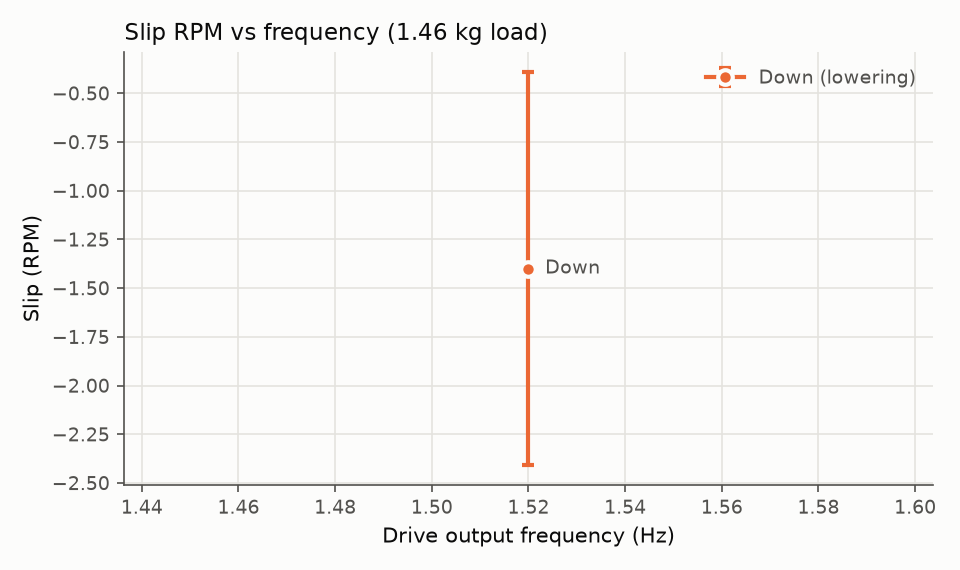
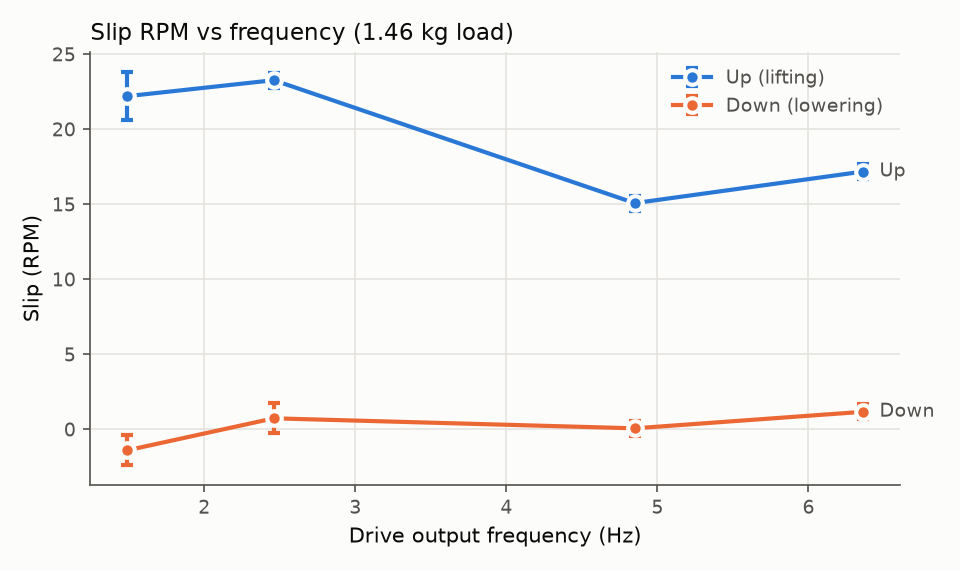
Backfill the 1.46 kg metal box's missing frequencies into the repo
The 2.44/4.85/6.36 Hz up/down runs for the metal box were analyzed and
published in docs/results-log.md and its Word doc, but were never logged
as structured data (xlsx + rpm_notes.csv) the way the pliers and plastic
housing runs were - only the 1.52 Hz down-direction session existed under
results/2026-10-07/. Recovered the exact per-run numbers from the Word
doc's build script and added them in the same schema as the other two
objects, so all three calibration objects now read uniformly from
results/*/analysis/groups.csv.

Also fixes analyze.py to tolerate a group with no current reading at all
(the box's single continuous 1.39 Hz up run has no per-run current
breakdown, only a session-level RPM read) instead of crashing.

diff --git a/tools/analysis/analyze.py b/tools/analysis/analyze.py
@@ -150,6 +150,8 @@ def group(runs):
     for (fbin, direction, total), rs in sorted(groups.items()):
         def stats(key):
             vals = [r[key] for r in rs if r[key] is not None]
+            if not vals:
+                return None, None
             mean = statistics.fmean(vals)
             std = statistics.stdev(vals) if len(vals) > 1 else 0.0
             return mean, std
@@ -200,7 +202,8 @@ def plot_vs(groups_rows, x_key, y_key, y_err_key, xlabel, ylabel, title, path, p
     fig.patch.set_facecolor(SURFACE)
     style_axes(ax)
     for direction, color, label in (("up", UP_COLOR, "Up (lifting)"), ("down", DOWN_COLOR, "Down (lowering)")):
-        pts = sorted((g[x_key], g[y_key], g[y_err_key]) for g in groups_rows if g["direction"] == direction)
+        pts = sorted((g[x_key], g[y_key], g[y_err_key]) for g in groups_rows
+                     if g["direction"] == direction and g[y_key] is not None and g[y_err_key] is not None)
         if not pts:
             continue
         xs, ys, es = zip(*pts)
@@ -214,7 +217,7 @@ def plot_vs(groups_rows, x_key, y_key, y_err_key, xlabel, ylabel, title, path, p
     ax.legend(frameon=False, fontsize=9, labelcolor=INK_2)
     # Only pin the bottom to 0 when every value is non-negative - otherwise (e.g. an
     # overhauling/negative-slip descent) that would clip real data off the chart.
-    all_y = [g[y_key] for g in groups_rows]
+    all_y = [g[y_key] for g in groups_rows if g[y_key] is not None]
     if all_y and min(all_y) >= 0:
         ax.set_ylim(bottom=0)
     fig.tight_layout()
@@ -288,10 +291,10 @@ def main():
     print(f">> {len(runs)} runs with RPM, {len(groups_rows)} groups -> {out_dir}")
     print(f"{'Hz':>6} {'dir':>5} {'kg':>5} {'n':>3} {'slip':>14} {'slip RPM':>14} {'current A':>14}")
     for g in groups_rows:
+        cur = f"{g['current_mean']:6.3f}±{g['current_std']:.3f}" if g["current_mean"] is not None else "   n/c"
         print(f"{g['freq_hz']:6.2f} {g['direction']:>5} {g['total_kg']:5g} {g['n']:3d} "
               f"{g['slip_mean']:7.4f}±{max(g['slip_std'], g['slip_reading_unc']):.4f} "
-              f"{g['slip_rpm_mean']:8.2f}±{g['slip_rpm_std']:.2f}   "
-              f"{g['current_mean']:6.3f}±{g['current_std']:.3f}")
+              f"{g['slip_rpm_mean']:8.2f}±{g['slip_rpm_std']:.2f}   {cur}")
     make_plots(groups_rows, out_dir)
 
 
